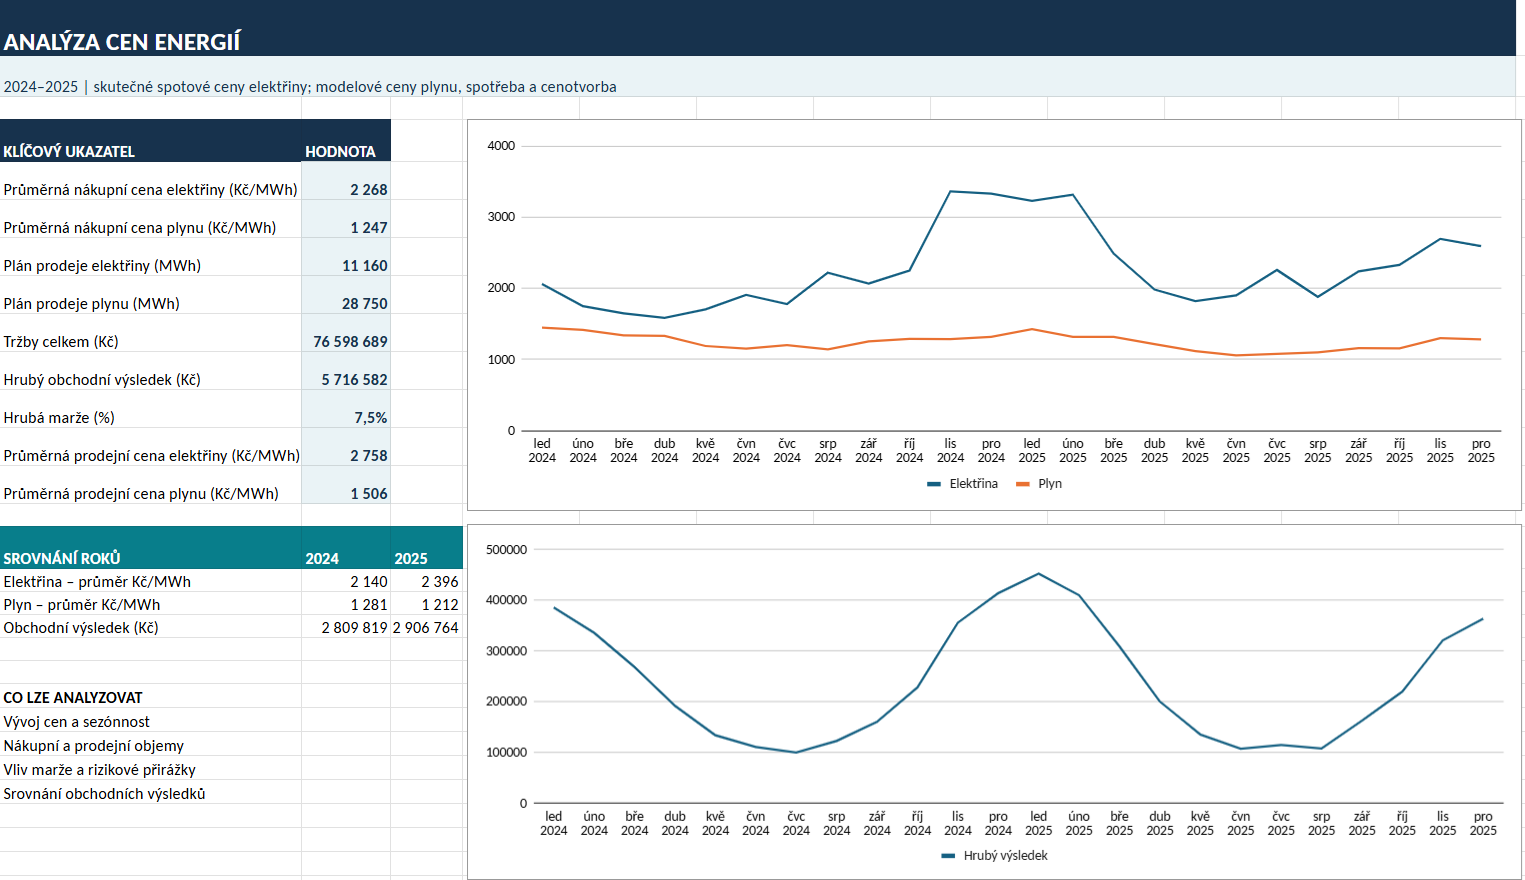
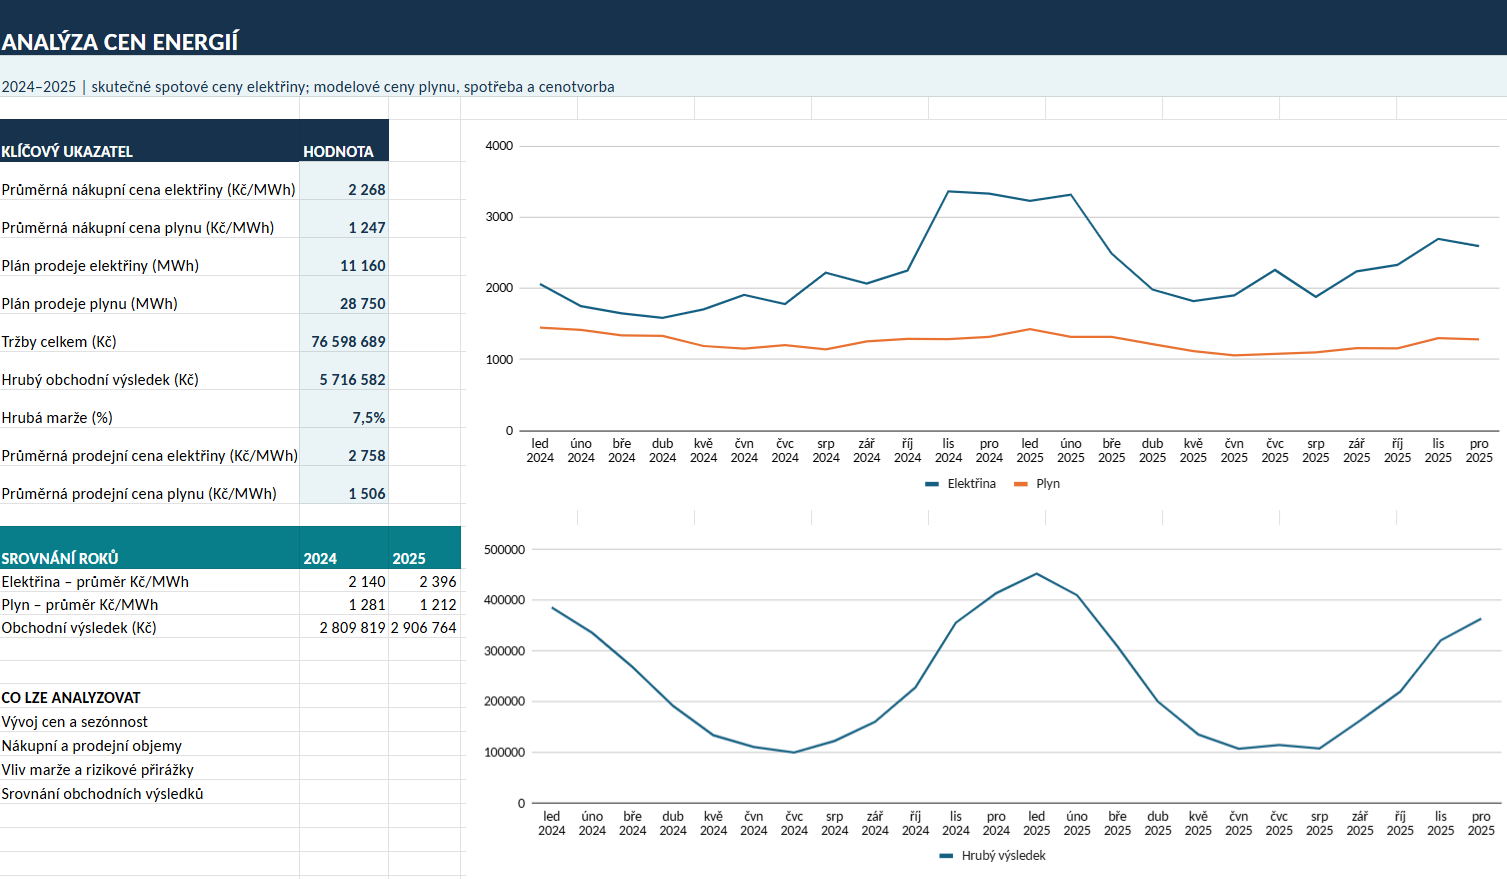
Revise README for clarity and update dashboard image; remove unused file.jpg

diff --git a/README.md b/README.md
@@ -1,8 +1,6 @@
 # Analýza cen elektřiny a zemního plynu v ČR (2024–2025)
 
-**Excel | Datová analytika | Cenotvorba komodit | Reporting a KPI**
-
-Portfolio projekt představuje analytický model pro sledování vývoje velkoobchodních cen energií, plánování nákupních a prodejních objemů a simulaci obchodních cen pro koncové zákazníky.
+Projekt představuje analytický model pro sledování vývoje velkoobchodních cen energií, plánování nákupních a prodejních objemů a simulaci obchodních cen pro koncové zákazníky.
 
 ## 1. Business problém
 
@@ -45,7 +43,6 @@ Nejvyšší měsíční hodnota v souboru je **3 366 Kč/MWh (listopad 2024)** a
 | Simulovaný hrubý obchodní výsledek | 5,72 mil. Kč |
 | Simulovaná hrubá marže | 7,46 % |
 
-> **Pozor:** KPI obchodního výsledku závisí na syntetické spotřebě, modelových nákupních cenách plynu a nastavených přirážkách. Nelze je interpretovat jako skutečnou ziskovost energetické společnosti.
 
 ### Ukázka vývoje cen elektřiny
 
@@ -58,7 +55,8 @@ Nejvyšší měsíční hodnota v souboru je **3 366 Kč/MWh (listopad 2024)** a
 | duben 2025 | 1 985 |
 | prosinec 2025 | 2 595 |
 
-**Dashboard a grafy:** otevřete list `Dashboard` v přiloženém souboru. Pro náhled přímo na GitHubu lze později přidat screenshot do `images/dashboard.png` a vložit sem odkaz `![Dashboard](images/dashboard.png)`.
+## Dashboard: 
+ ![Dashboard](images/dashboard.png).
 
 ## 4. Doporučení pro business
 
@@ -86,9 +84,9 @@ Další rozvoj: získat ověřenou měsíční řadu cen plynu, doplnit reálné
 
 ## Jak projekt spustit
 
-1. Stáhněte soubor `Analyza_cen_energii_CZ_historicka_data.xlsx` z tohoto repozitáře.
+1. Stáhněte soubor `Analyza_cen_energii_CZ_historicka_data.xlsm` z tohoto repozitáře.
 2. Otevřete jej v Microsoft Excelu.
 3. Prohlédněte si `Dashboard` a `Metodika`.
 4. Na listu `Vstupní parametry` změňte modelové předpoklady a sledujte přepočet cenotvorby a KPI.
 
-**Použité nástroje:** Microsoft Excel, vzorce, grafy, modelování KPI a scénářová analýza.
+**Použité nástroje:** Microsoft Excel, vzorce, grafy, modelování KPI.
